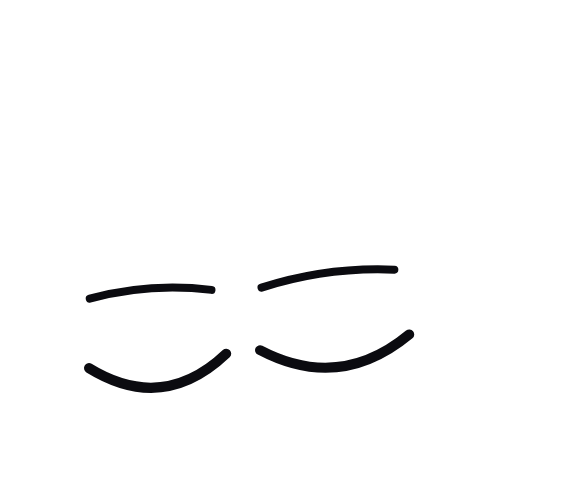
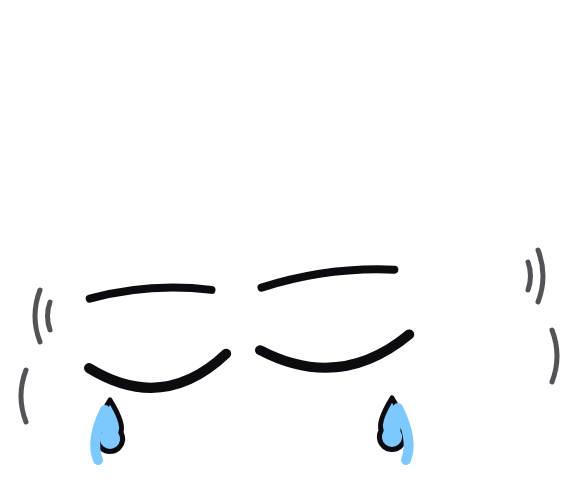
Poz küçük resimleri parçalardan; duygu işaretleri göz katmanında (daha az dosya)
Claude-Session: https://claude.ai/code/session_016dSUtrNcGtDLyBLVobBuhL

diff --git a/scripts/build-wardencb-pack.tsx b/scripts/build-wardencb-pack.tsx
@@ -21,7 +21,7 @@ const WCB = 'packs/hazir/wardencb', GOV = 'packs/hazir/govdeler', GOZ = 'packs/h
 // Pozlar: projeye bütün gibi gelir ama ayrı katmanlardır (alttan üste). Çizgi kök; arka kulak ushankayı takip eder.
 const CHAR_PARTS = (fx: boolean): Part[] => [
   { name: 'Ushanka Arka Kulak', layers: ['hatBack'], parent: 4 }, { name: 'İç', layers: ['fill'] }, { name: 'Çizgi', layers: ['line'] },
-  { name: 'Göz', layers: ['eyes'] }, { name: 'Ushanka', layers: ['hat'] }, ...(fx ? [{ name: 'İşaretler', layers: ['fx'] as WcbLayer[] }] : []),
+  { name: 'Göz', layers: fx ? ['eyes', 'fx'] : ['eyes'] }, { name: 'Ushanka', layers: ['hat'] },
 ];
 const items: Item[] = [];
 for (const [k, p] of Object.entries(POSES)) if (k !== 'point') items.push({ folder: 'Pozlar', name: p.name, mood: k as Mood, parts: CHAR_PARTS(!!(p as { fx?: unknown[] }).fx?.length), root: 2, dir: WCB });
@@ -57,13 +57,14 @@ const shot = async (it: Item, layers: WcbLayer[], file: string) => {
 };
 for (const it of items) {
   const base = it.file ?? `${slug(it.folder)}-${slug(it.name)}`;
-  const src = await shot(it, it.parts.flatMap((p) => p.layers), `${base}.png`);
-  const out: Out = { name: it.name, src };
+  // Çok parçalı öğelerin ayrı küçük resmi yok: arayüz parçaları üst üste koyarak gösterir
+  const out: Out = { name: it.name, src: '' };
   if (it.parts.length > 1) {
     out.parts = [];
     for (const pt of it.parts) out.parts.push({ name: pt.name, src: await shot(it, pt.layers, `${base}--${slug(pt.name)}.png`), ...(pt.back ? { back: true } : {}), ...(pt.parent !== undefined ? { parent: pt.parent } : {}) });
     out.root = it.root ?? 0;
-  }
+    out.src = out.parts[out.root].src;
+  } else out.src = await shot(it, it.parts[0].layers, `${base}.png`);
   if (!folders.has(it.folder)) folders.set(it.folder, []);
   folders.get(it.folder)!.push(out);
 }

diff --git a/src/components/Panels.tsx b/src/components/Panels.tsx
@@ -376,7 +376,7 @@ function CBTab({ onPick, onBody, toast }: { onPick: (it: PackItem) => void; onBo
         ) : (
           <>
             <button className="thumb" style={{ width: '100%' }} aria-label={it.name} onClick={() => !edit && onPick(it)}>
-              <Img src={it.src} alt="" />
+              {it.parts ? <span className="pstack">{it.parts.map((pt) => <Img key={pt.src} src={pt.src} alt="" />)}</span> : <Img src={it.src} alt="" />}
               {edit && it.id && <span className="x" role="button" aria-label={`${it.name} sil`} onClick={async (e) => { e.stopPropagation(); await removeUserPackItem(it.id!); refresh(); }}><Icon name="close" size={14} stroke={2.4} /></span>}
             </button>
             <div className="tlabel">{it.name}</div>

diff --git a/src/styles.css b/src/styles.css
@@ -632,3 +632,5 @@ button:focus-visible, a:focus-visible, input:focus-visible { outline: 2px solid 
 .wa-hand.press i { animation: wa-rip .45s ease-out; }
 @keyframes wa-rip { from { opacity: .9; transform: scale(.3); } to { opacity: 0; transform: scale(1.4); } }
 .wa-head .ib { font-size: 15px; }
+.thumb .pstack { position: relative; width: 100%; height: 100%; display: block; }
+.thumb .pstack img { position: absolute; inset: 0; width: 100%; height: 100%; object-fit: contain; }
